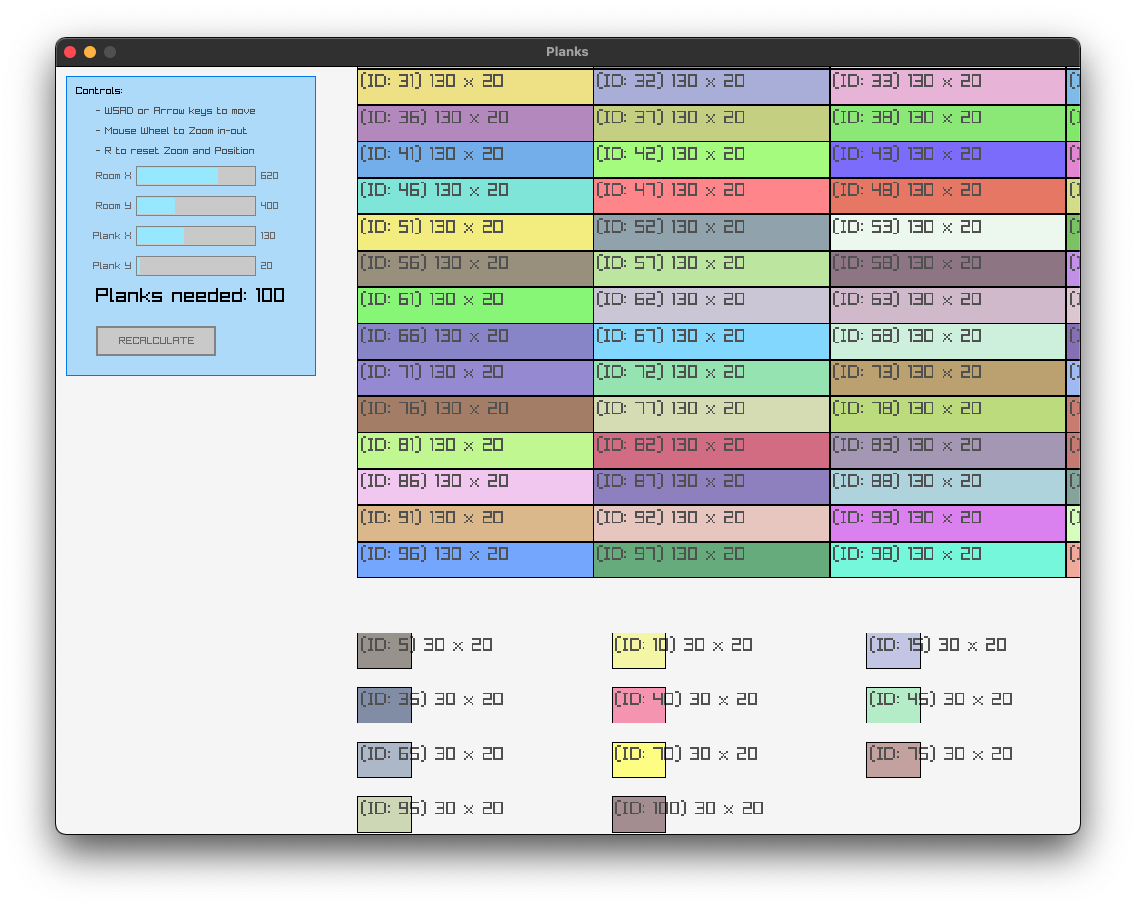
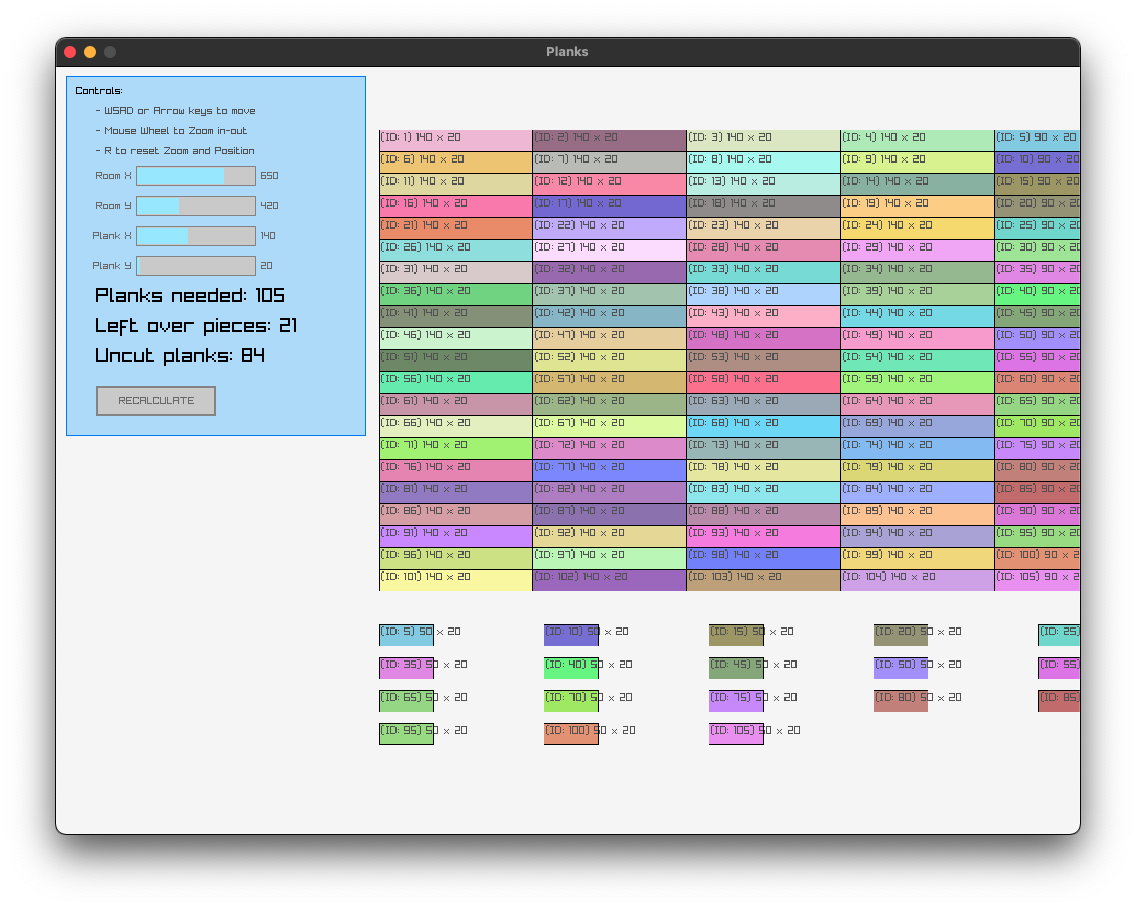
show more result info

diff --git a/src/main.cpp b/src/main.cpp
@@ -1,3 +1,4 @@
+#include <iomanip>
 #include <random>
 #include <string>
 #include <vector>
@@ -27,7 +28,7 @@ auto main() -> int
     std::pair<int, int> room_size{ 560, 400 };
     std::pair<int, int> plank_size{ 130, 25 };
 
-    auto [planks, index] = calculate(room_size, plank_size);
+    auto result = calculate(room_size, plank_size);
 
     while (!WindowShouldClose())
     {
@@ -74,15 +75,17 @@ auto main() -> int
 
         BeginMode2D(camera);
 
-        for (const auto& plank : planks)
+        for (const auto& plank : result.planks)
         {
             plank.draw();
         }
 
         EndMode2D();
 
-        DrawRectangle(10, 10, 250, 300, Fade(SKYBLUE, 0.5f));
-        DrawRectangleLines(10, 10, 250, 300, BLUE);
+        static constexpr auto blue_rect_height = 360;
+
+        DrawRectangle(10, 10, 300, blue_rect_height, Fade(SKYBLUE, 0.5f));
+        DrawRectangleLines(10, 10, 300, blue_rect_height, BLUE);
 
         DrawText("Controls:", 20, 20, 10, BLACK);
         DrawText("- WSAD or Arrow keys to move", 40, 40, 10, DARKGRAY);
@@ -128,14 +131,14 @@ auto main() -> int
                             multiplier;
 
         std::stringstream ss;
-        ss << "Planks needed: " << index;
+        ss << "Planks needed: " << result.all_planks << '\n'
+           << "Left over pieces: " << result.left_over << '\n'
+           << "Uncut planks: " << result.uncut;
         DrawText(ss.str().c_str(), 40, 220, 20, BLACK);
 
-        if (GuiButton((Rectangle){ 40, 260, 120, 30 }, "RECALCULATE"))
+        if (GuiButton((Rectangle){ 40, 320, 120, 30 }, "RECALCULATE"))
         {
-            const auto result = calculate(room_size, plank_size);
-            planks = result.first;
-            index = result.second;
+            result = calculate(room_size, plank_size);
         }
 
         EndDrawing();

diff --git a/src/flooring.cpp b/src/flooring.cpp
@@ -18,7 +18,7 @@ auto generate_color(int index) -> Color
     return { dist(rng), dist(rng), dist(rng), color_max_value };
 }
 
-auto calculate(std::pair<int, int> room_size, std::pair<int, int> plank_size) -> std::pair<std::vector<Plank>, int>
+auto calculate(std::pair<int, int> room_size, std::pair<int, int> plank_size) -> calculation_result
 {
     // uncut planks
     const int uncut_in_column = std::floor(static_cast<float>(room_size.second) / static_cast<float>(plank_size.second));
@@ -126,5 +126,10 @@ auto calculate(std::pair<int, int> room_size, std::pair<int, int> plank_size) ->
     // append all planks together
     planks.insert(planks.end(), left_over_pieces.begin(), left_over_pieces.end());
 
-    return { planks, index };
+    calculation_result result;
+    result.all_planks = index;
+    result.left_over = static_cast<int>(left_over_pieces.size());
+    result.uncut = uncut_in_column * uncut_in_row;
+    result.planks = planks;
+    return result;
 }

diff --git a/include/flooring.h b/include/flooring.h
@@ -1,5 +1,15 @@
 #pragma once
 
+#include <vector>
+
 #include "plank.h"
 
-auto calculate(std::pair<int, int> room_size, std::pair<int, int> plank_size) -> std::pair<std::vector<Plank>, int>;
+struct calculation_result
+{
+    int all_planks{};
+    int left_over{};
+    int uncut{};
+    std::vector<Plank> planks{};
+};
+
+auto calculate(std::pair<int, int> room_size, std::pair<int, int> plank_size) -> calculation_result;
